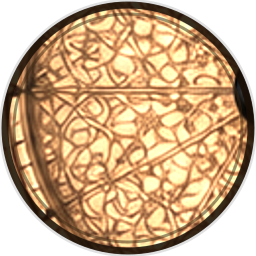
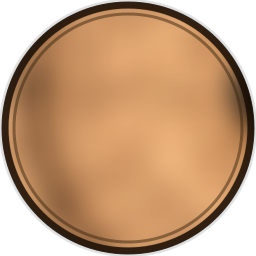
fix(golem): the seat token calms to the clock face's plain tone (blurred, ringed); the trash tool retires (scrub to 0 covers it)

diff --git a/src/components/HostTools.vue b/src/components/HostTools.vue
@@ -62,18 +62,13 @@
       <!-- FT-847 follow-up: relocated from the retired Players toolbar tab.
            ALWAYS rendered — appearing icons shove the row (user call);
            unusable states grey out instead. -->
+      <!-- (trash retired — scrub the count to 0 instead; user call) -->
       <span class="tools">
         <font-awesome-icon
           icon="random"
           :class="{ disabled: players.length <= 2 }"
           @click="randomizeSeatings"
           title="Shuffle seat order"
-        />
-        <font-awesome-icon
-          icon="trash-alt"
-          :class="{ disabled: !players.length }"
-          @click="clearAllPlayers"
-          title="Remove all seats"
         />
       </span>
     </div>
